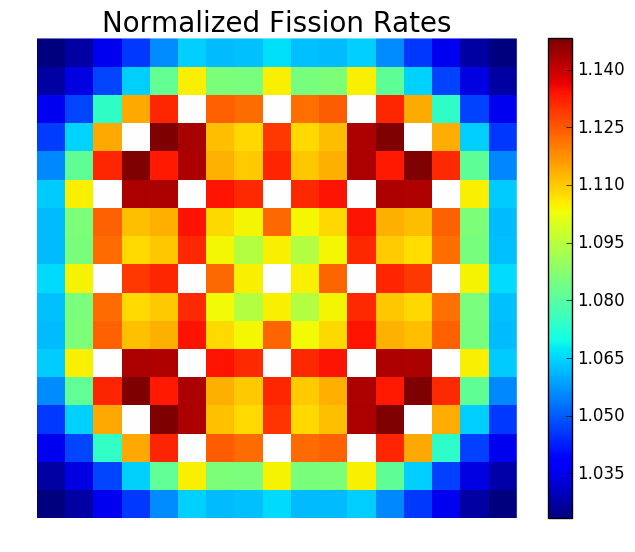
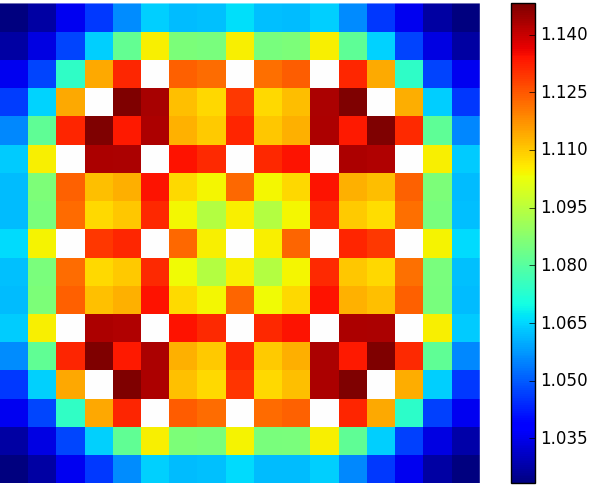
Removed title from reaction rate plots

diff --git a/results.tex b/results.tex
@@ -16,13 +16,13 @@ The first benchmark was a fuel assembly comprised of 264 pins of 1.6\% enriched 
 
 \begin{figure}[h!]
 \centering
-\begin{subfigure}{0.42\textwidth}
+\begin{subfigure}{0.45\textwidth}
   \centering
   \includegraphics[width=0.8\linewidth]{figures/assembly/geometry}
   \caption{}
   \label{fig:benchmarks}
 \end{subfigure}
-\begin{subfigure}{0.42\textwidth}
+\begin{subfigure}{0.45\textwidth}
   \centering
   \includegraphics[width=0.8\linewidth]{figures/colorset/geometry}
   \caption{}
@@ -51,12 +51,14 @@ OpenMC simulations were used to compute both the MGXS as well as reference eigen
 \begin{figure*}[h!]
 \centering
 \begin{subfigure}{0.45\textwidth}
-  \includegraphics[width=\linewidth]{figures/assembly/fission-rates}
+  \centering
+  \includegraphics[width=0.8\linewidth]{figures/assembly/fission-rates}
   \caption{}
   \label{fig:fiss-assm}
 \end{subfigure}%
 \begin{subfigure}{0.45\textwidth}
-  \includegraphics[width=\linewidth]{figures/colorset/fission-rates}
+  \centering
+  \includegraphics[width=0.8\linewidth]{figures/colorset/fission-rates}
   \caption{}
   \label{fig:capt-assm}
 \end{subfigure}
